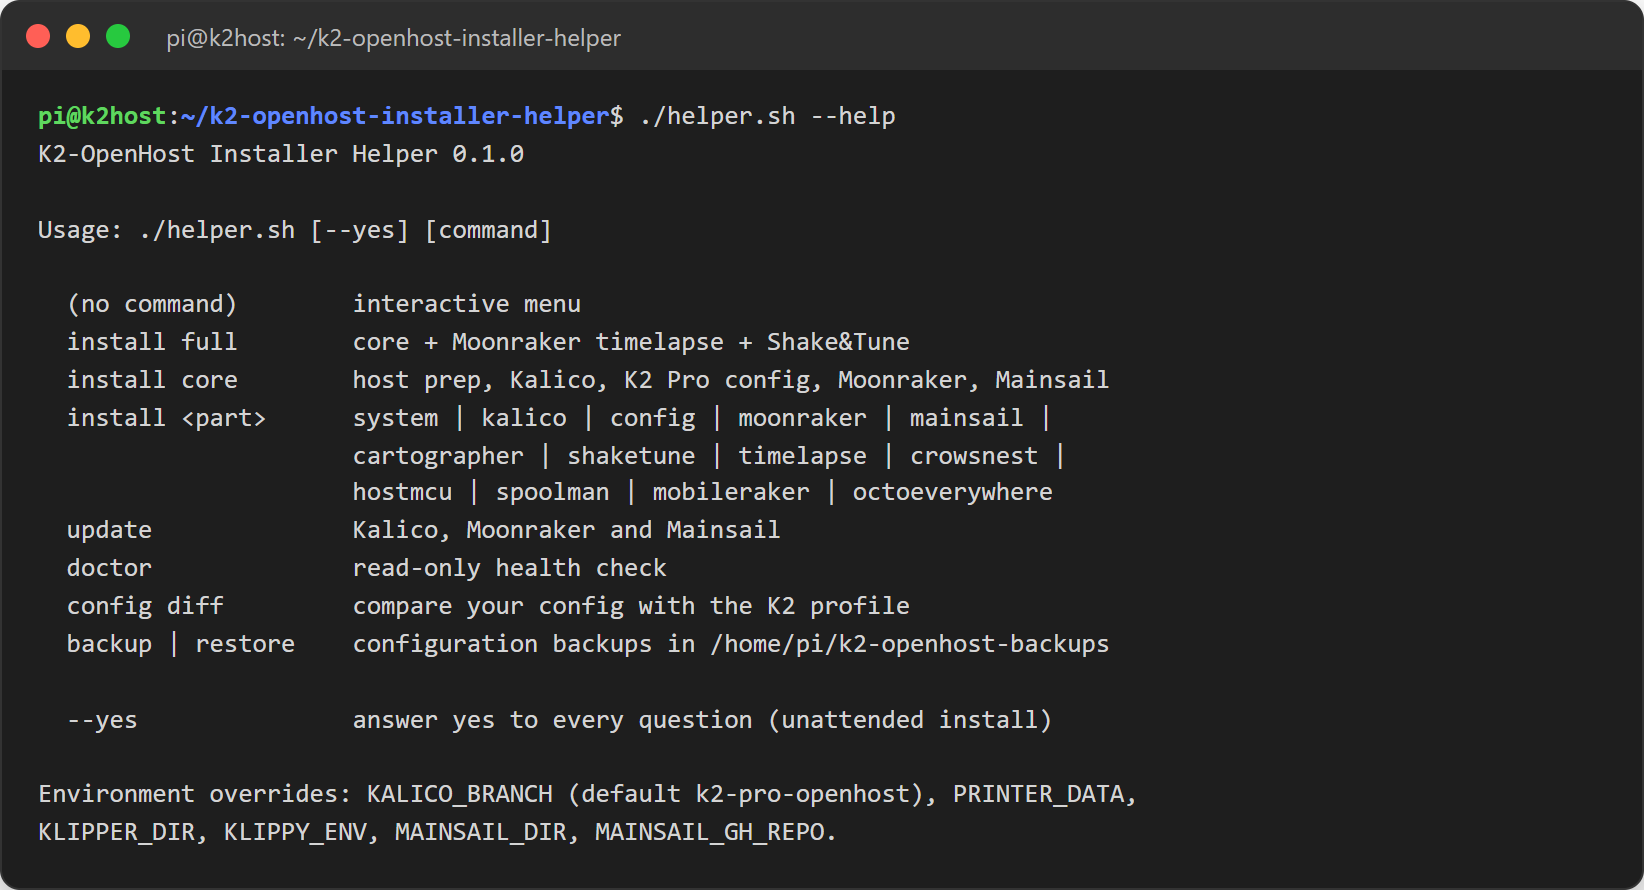
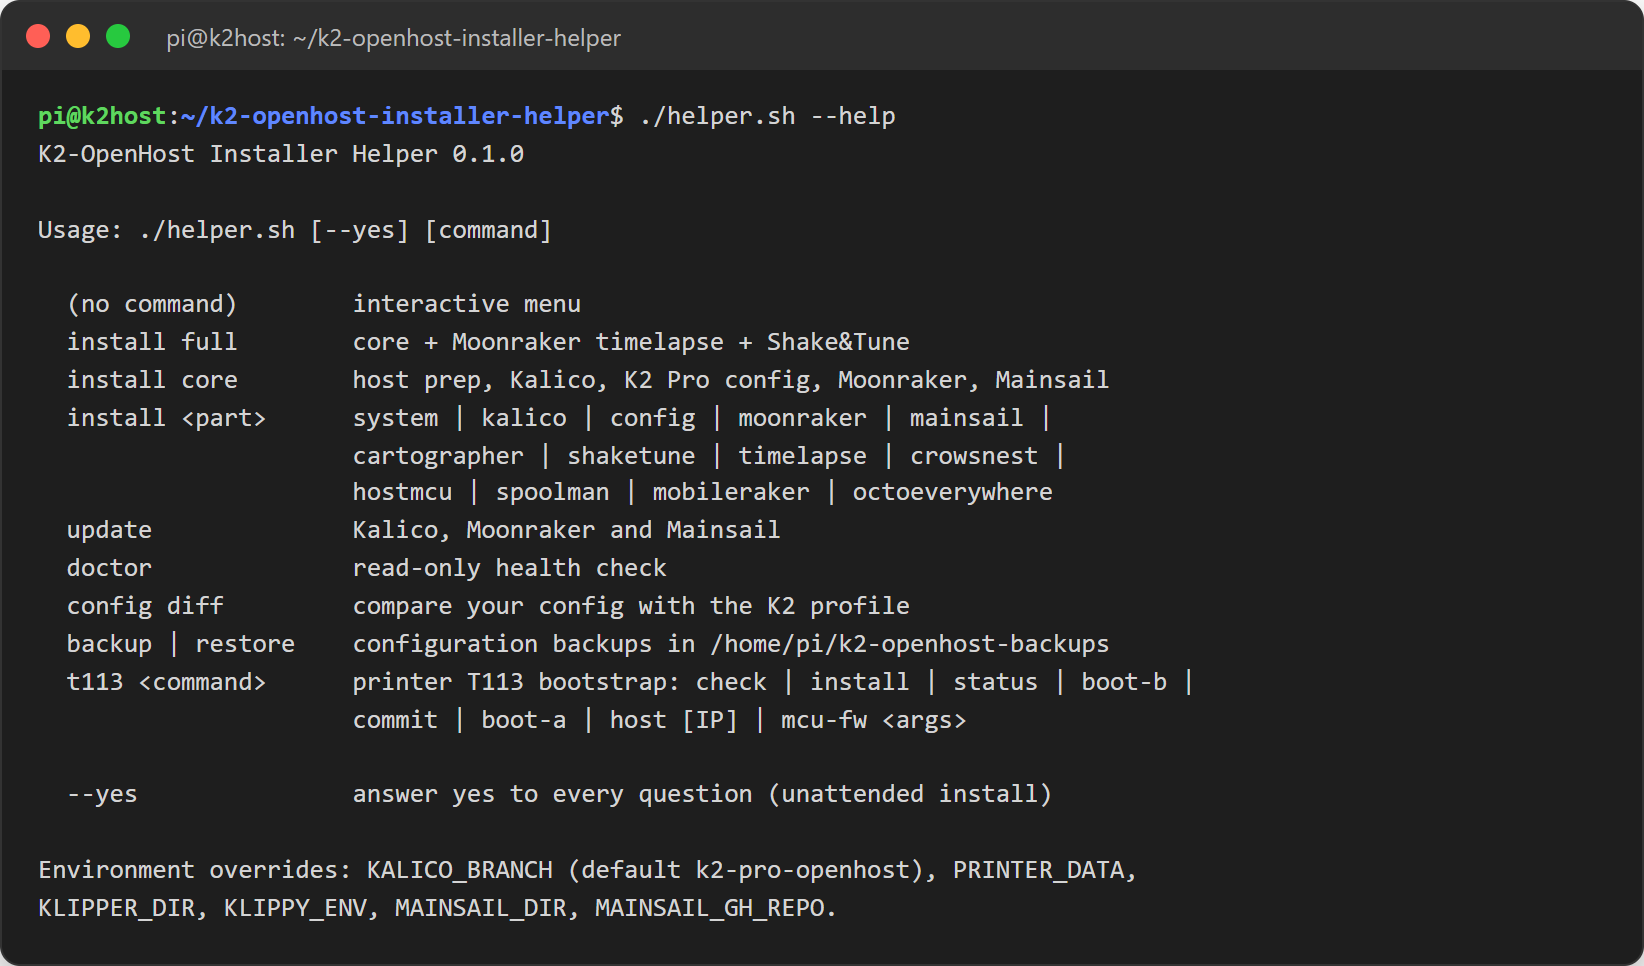
feat(t113): read-only printer check, refreshed docs and screenshots
./helper.sh t113 check (menu 23) runs the install's printer checks
without changing anything: K2 Pro model and board, running slot, boot
environment, free space, slot A's firmware and the Creality release
slot B would be built from. install reuses the same checks. The T113
entries are renumbered 24-31.

The README gains a Printer T113 bootstrap section, and the step-by-step
guide covers check, install and keep. The menu and help screenshots are
regenerated; new ones show t113 check (run read-only against the
reference printer) and k2oh-mcu-fw update.

diff --git a/README.it.md b/README.it.md
@@ -11,6 +11,8 @@
 
 K2-OpenHost Installer Helper trasforma un computer Linux esterno in un host [K2-OpenHost](https://github.com/MzTechnology97/K2-OpenHost) pronto all'uso. Installa Kalico, Moonraker e il fork Mainsail K2-OpenHost, che comandano la Creality K2 Pro attraverso la scheda madre originale; la scheda T113 della K2 fa da bridge USB gadget. Il menu è ispirato al [Creality Helper Script per la serie K2](https://github.com/tofuliang/Creality-Helper-Script-K2-Series).
 
+Dallo stesso menu prepara anche la stampante: il **bootstrap del T113** scrive un sistema K2-OpenHost nello slot B di riserva del T113, con i bridge USB gadget e HelixScreen collegato a questo host. Un solo menu configura sia l'host esterno sia la stampante. L'aggiornamento del firmware delle MCU resta un passaggio manuale e confermato.
+
 ```text
 Scheda madre Creality K2 Pro (T113)             Host Linux esterno (questo installer)
   Main MCU   ttyS2 ── ttyGS0 ─┐                  ┌── /dev/ttyUSB0 = /dev/k2-main
@@ -28,15 +30,16 @@ Scheda madre Creality K2 Pro (T113)             Host Linux esterno (questo insta
 2. [Guida passo passo per principianti](#guida-passo-passo-per-principianti)
 3. [Cosa viene installato](#cosa-viene-installato)
 4. [Le voci del menu](#le-voci-del-menu)
-5. [Riga di comando](#riga-di-comando)
-6. [La configurazione della stampante](#la-configurazione-della-stampante)
-7. [Controllo dell'host (doctor)](#controllo-dellhost-doctor)
-8. [Aggiornamenti](#aggiornamenti)
-9. [Backup e ripristino](#backup-e-ripristino)
-10. [Risoluzione dei problemi](#risoluzione-dei-problemi)
-11. [Sicurezza](#sicurezza)
-12. [Roadmap](#roadmap)
-13. [Crediti](#crediti)
+5. [Bootstrap del T113 della stampante](#bootstrap-del-t113-della-stampante)
+6. [Riga di comando](#riga-di-comando)
+7. [La configurazione della stampante](#la-configurazione-della-stampante)
+8. [Controllo dell'host (doctor)](#controllo-dellhost-doctor)
+9. [Aggiornamenti](#aggiornamenti)
+10. [Backup e ripristino](#backup-e-ripristino)
+11. [Risoluzione dei problemi](#risoluzione-dei-problemi)
+12. [Sicurezza](#sicurezza)
+13. [Roadmap](#roadmap)
+14. [Crediti](#crediti)
 
 ## Avvio rapido
 
@@ -63,7 +66,7 @@ Non serve esperienza con Linux: ogni comando qui sotto si può copiare e incolla
 | Alimentatore | Quello ufficiale della scheda. Una tensione insufficiente provoca disconnessioni casuali. |
 | Cavo USB | Un cavo **dati** da una porta USB dell'host alla porta Micro-USB di servizio della K2. I cavi solo di ricarica non funzionano. |
 | Rete | Ethernet o Wi-Fi, con accesso a Internet durante l'installazione. |
-| La K2 | Una **Creality K2 Pro** con firmware originale, raggiungibile in rete. Il bootstrap del T113 è stato preparato e provato sulla **1.1.0.94**; su firmware più recenti il suo funzionamento e la modalità USB gadget (OTG) del T113 non sono garantiti. La sua scheda T113 deve eseguire i tre bridge seriali USB gadget: la voce **23** del menu li installa nello slot di sistema di riserva della stampante (slot B) insieme a HelixScreen, senza toccare il sistema attuale (slot A). Vedi la [guida al bootstrap del T113](https://github.com/MzTechnology97/k2-openhost-t113-bootstrap/blob/main/README.it.md). |
+| La K2 | Una **Creality K2 Pro** con firmware originale, raggiungibile in rete. Il bootstrap del T113 è stato preparato e provato sulla **1.1.0.94**; su firmware più recenti il suo funzionamento e la modalità USB gadget (OTG) del T113 non sono garantiti. La sua scheda T113 deve eseguire i tre bridge seriali USB gadget: la voce **23** del menu controlla la stampante e la voce **24** li installa nello slot di sistema di riserva della stampante (slot B) insieme a HelixScreen, senza toccare il sistema attuale (slot A). Vedi la [guida al bootstrap del T113](https://github.com/MzTechnology97/k2-openhost-t113-bootstrap/blob/main/README.it.md). |
 | Un altro computer | Windows, macOS o Linux, per preparare la scheda e collegarti all'host. |
 | Fotocamere (opzionale) | La fotocamera dell'ugello e quella della camera non possono funzionare tramite il T113 in modalità OpenHost: ricabla il percorso originale verso porte USB dell'host, poi usa l'opzione Crowsnest. |
 
@@ -153,7 +156,10 @@ Serve ad applicare i permessi sulle porte seriali dati al tuo utente. Ricollegat
 ### 9. Collegare la K2
 
 1. Collega il cavo USB dati tra una porta USB dell'host e la porta Micro-USB di servizio della K2.
-2. Esegui la voce **23) Install the T113 bootstrap** (`./helper.sh t113 install`): chiede l'IP della stampante, verifica che sia una K2 Pro, costruisce il sistema dello slot B dal firmware Creality e lo scrive, poi propone l'avvio di prova. Segui la [guida al bootstrap del T113](https://github.com/MzTechnology97/k2-openhost-t113-bootstrap/blob/main/README.it.md).
+2. Prepara la scheda T113 della stampante (dettagli in [Bootstrap del T113 della stampante](#bootstrap-del-t113-della-stampante)):
+   1. voce **23) Check the printer**: in sola lettura, conferma la K2 Pro e mostra la versione firmware che userebbe lo slot B;
+   2. voce **24) Install the T113 bootstrap**: costruisce lo slot B dal firmware Creality, lo scrive (slot A non toccato) e propone l'avvio di prova;
+   3. dopo l'avvio di prova, quando Mainsail mostra la stampante pronta, voce **27) Keep slot B**.
 3. Klipper parte da solo: a ogni avvio aspetta fino a 60 secondi i tre canali.
 
 ### 10. Controllare l'host
@@ -211,16 +217,45 @@ KAMP non viene installato a parte: è già integrato in Kalico e lo configura `k
 | 19 | Serial names | Passa `printer.cfg` e l'attesa all'avvio ai nomi `/dev/k2-*`, indipendenti dall'ordine USB. |
 | 20 / 21 | Backup / Restore | Archivia o ripristina configurazione, libreria filamenti e stato CFS. |
 | 22 | Restart | Riavvia Klipper e Moonraker. Rifiutato durante una stampa. |
-| 23 | Install the T113 bootstrap | Chiede l'IP della stampante e conferma quello dell'host, clona il [bootstrap del T113](https://github.com/MzTechnology97/k2-openhost-t113-bootstrap), verifica via SSH che sia una K2 Pro, costruisce lo slot B dall'OTA Creality (versione dello slot A o più recente; provato solo sulla 1.1.0.94), aggiunge HelixScreen, scrive lo slot B (slot A non toccato) e propone l'avvio di prova. |
-| 24 | T113 status | Slot attivo, prossimo avvio, prova in corso, setup del primo avvio, HelixScreen. |
-| 25 | Trial boot slot B | Avvia lo slot B una volta; spegnendo e riaccendendo si torna allo slot A. |
-| 26 | Keep slot B | Rende lo slot B quello predefinito (da eseguire su uno slot B funzionante). |
-| 27 | Boot slot A | Torna al sistema originale della stampante. |
-| 28 | Change the host address | Aggiorna l'host usato da HelixScreen e da `k2oh-mcu-fw` sulla stampante. |
-| 29 | MCU firmware status | Versioni delle schede sulla stampante e file firmware che lo slot B scriverebbe. |
-| 30 | Update MCU firmware | Scarica l'ultima versione Creality, la prepara, mostra cosa cambia e aggiorna solo se confermi (prima ferma Klipper sull'host). Passo per passo: `./helper.sh t113 mcu-fw list\|download\|stage\|apply` (vedi la guida). |
+| 23 | Check the printer | In sola lettura: chiede l'IP della stampante e conferma quello dell'host, verifica via SSH che sia una K2 Pro (modello `F012`, scheda `CR0CN200400C10`), lo slot attivo, lo spazio libero e il firmware dello slot A, e mostra la versione Creality da cui verrebbe costruito lo slot B. Non scrive nulla. |
+| 24 | Install the T113 bootstrap | Clona il [bootstrap del T113](https://github.com/MzTechnology97/k2-openhost-t113-bootstrap), ripete i controlli, costruisce lo slot B dall'OTA Creality (versione dello slot A o più recente; provato solo sulla 1.1.0.94), aggiunge HelixScreen, scrive lo slot B (slot A non toccato) e propone l'avvio di prova. |
+| 25 | T113 status | Slot attivo, prossimo avvio, prova in corso, setup del primo avvio, HelixScreen. |
+| 26 | Trial boot slot B | Avvia lo slot B una volta; spegnendo e riaccendendo si torna allo slot A. |
+| 27 | Keep slot B | Rende lo slot B quello predefinito (da eseguire su uno slot B funzionante). |
+| 28 | Boot slot A | Torna al sistema originale della stampante. |
+| 29 | Change the host address | Aggiorna l'host usato da HelixScreen e da `k2oh-mcu-fw` sulla stampante. |
+| 30 | MCU firmware status | Versioni delle schede sulla stampante e file firmware che lo slot B scriverebbe. |
+| 31 | Update MCU firmware | Scarica l'ultima versione Creality, la prepara, mostra cosa cambia e aggiorna solo se confermi (prima ferma Klipper sull'host). Passo per passo: `./helper.sh t113 mcu-fw list\|download\|stage\|apply` (vedi la guida). |
 
 Le voci già installate mostrano `[installed]`. Se un passaggio fallisce, il menu mostra l'errore e resta aperto.
+
+## Bootstrap del T113 della stampante
+
+La scheda T113 della stampante esegue i bridge USB gadget verso questo host. Il bootstrap mette un sistema K2-OpenHost nello **slot B di riserva** del T113 e non scrive mai lo **slot A**, il sistema che la stampante usa oggi. È sviluppato in un repository dedicato: [k2-openhost-t113-bootstrap](https://github.com/MzTechnology97/k2-openhost-t113-bootstrap). La sua [guida completa](https://github.com/MzTechnology97/k2-openhost-t113-bootstrap/blob/main/README.it.md) descrive ogni passo, l'avvio di prova, il ripristino e la rimozione.
+
+> [!IMPORTANT]
+> Preparato e provato sul firmware originale della K2 Pro **1.1.0.94**. Le versioni più recenti sono accettate con un avviso, ma su di esse il bootstrap e la modalità USB gadget (OTG) del T113 **non sono garantiti**.
+
+**1. Controllo della stampante** (voce 23, `./helper.sh t113 check`). In sola lettura: modello, slot, spazio libero, versione firmware e versione Creality che userebbe lo slot B.
+
+<img src="docs/images/cli-t113-check.png" alt="Controllo del T113" width="760">
+
+**2. Installazione** (voce 24, `./helper.sh t113 install`):
+1. scarica l'OTA Creality dal CDN Creality e ne verifica l'MD5;
+2. costruisce lo slot B e aggiunge HelixScreen;
+3. carica tutto sulla stampante, salva il vecchio slot B e l'ambiente U-Boot, scrive lo slot B e lo rilegge;
+4. salva l'IP di questo host per HelixScreen e `k2oh-mcu-fw`.
+
+**3. Avvio di prova** (voce 26). Lo slot B si avvia una volta. Se non parte, spegni e riaccendi la stampante e torna allo slot A. Al primo avvio HelixScreen si installa da solo, già collegato a questo host. Collega il cavo Micro-USB di servizio e controlla Mainsail, poi **tieni lo slot B** (voce 27). La voce 28 torna allo slot A in qualsiasi momento.
+
+**4. Firmware di MCU, motori e CFS** (voce 31, `./helper.sh t113 mcu-fw update`):
+1. scarica l'ultima versione Creality e tiene solo i file firmware;
+2. la prepara nello slot B e mostra quali schede cambierebbero;
+3. aggiorna **solo se rispondi sì**, con gli strumenti Creality, dopo aver verificato che Klipper su questo host sia fermo (`sudo systemctl stop klipper`).
+
+`apply --cfs` include le unità CFS. Ecco un esempio sullo slot B, rispondendo no:
+
+<img src="docs/images/cli-t113-mcu-fw-update.png" alt="k2oh-mcu-fw update" width="760">
 
 ## Riga di comando
 

diff --git a/README.md b/README.md
@@ -11,6 +11,8 @@
 
 The K2-OpenHost Installer Helper turns an external Linux computer into a ready [K2-OpenHost](https://github.com/MzTechnology97/K2-OpenHost) host. It installs Kalico, Moonraker and the Mainsail K2-OpenHost fork, which run the Creality K2 Pro through its original mainboard; the K2's T113 board acts as a USB gadget bridge. The menu is styled after the [Creality Helper Script for the K2 series](https://github.com/tofuliang/Creality-Helper-Script-K2-Series).
 
+From the same menu it also prepares the printer: the **T113 bootstrap** writes a K2-OpenHost system to the T113's spare slot B, with the USB gadget bridges and HelixScreen pointed at this host. One menu sets up both the external host and the printer. MCU firmware updates stay a manual, confirmed step.
+
 ```text
 Creality K2 Pro mainboard (T113)                External Linux host (this installer)
   Main MCU   ttyS2 ── ttyGS0 ─┐                  ┌── /dev/ttyUSB0 = /dev/k2-main
@@ -28,15 +30,16 @@ Creality K2 Pro mainboard (T113)                External Linux host (this instal
 2. [Step-by-step guide for beginners](#step-by-step-guide-for-beginners)
 3. [What gets installed](#what-gets-installed)
 4. [Menu reference](#menu-reference)
-5. [Command line](#command-line)
-6. [Your printer configuration](#your-printer-configuration)
-7. [Health check (doctor)](#health-check-doctor)
-8. [Updates](#updates)
-9. [Backup and restore](#backup-and-restore)
-10. [Troubleshooting](#troubleshooting)
-11. [Safety](#safety)
-12. [Roadmap](#roadmap)
-13. [Credits](#credits)
+5. [Printer T113 bootstrap](#printer-t113-bootstrap)
+6. [Command line](#command-line)
+7. [Your printer configuration](#your-printer-configuration)
+8. [Health check (doctor)](#health-check-doctor)
+9. [Updates](#updates)
+10. [Backup and restore](#backup-and-restore)
+11. [Troubleshooting](#troubleshooting)
+12. [Safety](#safety)
+13. [Roadmap](#roadmap)
+14. [Credits](#credits)
 
 ## Quick start
 
@@ -63,7 +66,7 @@ No Linux experience is needed: every command below can be copied and pasted.
 | Power supply | The official supply for your board. Under-voltage causes random disconnections. |
 | USB cable | A **data** cable from a host USB port to the K2 service Micro-USB port. Charge-only cables do not work. |
 | Network | Ethernet or Wi-Fi, with internet access during the install. |
-| The K2 | A **Creality K2 Pro** on stock firmware, reachable on your network. The T113 bootstrap was prepared and tested on **1.1.0.94**; on newer firmware it and the T113 USB gadget (OTG) mode are not guaranteed. Its T113 board must run the three USB gadget serial bridges: menu **23** installs them in the printer's spare system slot (slot B) with HelixScreen, leaving the current system (slot A) untouched. See the [T113 bootstrap guide](https://github.com/MzTechnology97/k2-openhost-t113-bootstrap/blob/main/README.md). |
+| The K2 | A **Creality K2 Pro** on stock firmware, reachable on your network. The T113 bootstrap was prepared and tested on **1.1.0.94**; on newer firmware it and the T113 USB gadget (OTG) mode are not guaranteed. Its T113 board must run the three USB gadget serial bridges: menu **23** checks the printer and menu **24** installs them in the printer's spare system slot (slot B) with HelixScreen, leaving the current system (slot A) untouched. See the [T113 bootstrap guide](https://github.com/MzTechnology97/k2-openhost-t113-bootstrap/blob/main/README.md). |
 | Another computer | Windows, macOS or Linux, to prepare the card and connect to the host. |
 | Cameras (optional) | The nozzle and chamber cameras cannot run through the T113 in OpenHost mode: rewire their original cable path to USB ports of the host, then use the Crowsnest option. |
 
@@ -153,7 +156,10 @@ This applies the serial-port permissions given to your user. Reconnect with `ssh
 ### 9. Connect the K2
 
 1. Connect the USB data cable between a USB port of the host and the K2 service Micro-USB port.
-2. Run menu **23) Install the T113 bootstrap** (`./helper.sh t113 install`): it asks for the printer's IP, checks that it is a K2 Pro, builds the slot B system from Creality's own firmware and writes it, then offers the trial boot. Follow the [T113 bootstrap guide](https://github.com/MzTechnology97/k2-openhost-t113-bootstrap/blob/main/README.md).
+2. Prepare the printer's T113 board (details in [Printer T113 bootstrap](#printer-t113-bootstrap)):
+   1. menu **23) Check the printer**: read-only, it confirms the K2 Pro and shows the firmware release slot B would use;
+   2. menu **24) Install the T113 bootstrap**: builds slot B from Creality's own firmware, writes it (slot A untouched) and offers the trial boot;
+   3. after the trial boot, when Mainsail shows the printer ready, menu **27) Keep slot B**.
 3. Klipper starts by itself: it waits up to 60 seconds for the three channels every time it starts.
 
 ### 10. Check the host
@@ -211,16 +217,45 @@ KAMP is not installed separately: Kalico already includes it, and the K2 profile
 | 19 | Serial names | Switches `printer.cfg` and the start gate to `/dev/k2-*` names, independent of USB enumeration order. |
 | 20 / 21 | Backup / Restore | Archives or restores the configuration, CFS filament library and CFS state. |
 | 22 | Restart | Restarts Klipper and Moonraker. Refused while printing. |
-| 23 | Install the T113 bootstrap | Asks the printer IP and confirms this host's IP, clones the [T113 bootstrap](https://github.com/MzTechnology97/k2-openhost-t113-bootstrap), checks over SSH that the printer is a K2 Pro, builds slot B from Creality's OTA (slot A's release or a newer one; tested on 1.1.0.94 only), adds HelixScreen, writes slot B (slot A untouched) and offers the trial boot. |
-| 24 | T113 status | Running slot, next boot, trial flag, first-boot setup, HelixScreen. |
-| 25 | Trial boot slot B | Boots slot B once; a power cycle returns to slot A. |
-| 26 | Keep slot B | Makes slot B the default (run on a working slot B). |
-| 27 | Boot slot A | Back to the printer's original system. |
-| 28 | Change the host address | Updates the host used by HelixScreen and `k2oh-mcu-fw` on the printer. |
-| 29 | MCU firmware status | Board versions on the printer and the firmware files slot B would flash. |
-| 30 | Update MCU firmware | Downloads the latest Creality release, stages it, shows what changes and flashes only if you confirm (stop Klipper on the host first). Step by step: `./helper.sh t113 mcu-fw list\|download\|stage\|apply` (see the guide). |
+| 23 | Check the printer | Read-only: asks the printer IP and confirms this host's IP, checks over SSH that the printer is a K2 Pro (model `F012`, board `CR0CN200400C10`), the running slot, free space and slot A's firmware, and shows the Creality release slot B would be built from. Writes nothing. |
+| 24 | Install the T113 bootstrap | Clones the [T113 bootstrap](https://github.com/MzTechnology97/k2-openhost-t113-bootstrap), repeats the checks, builds slot B from Creality's OTA (slot A's release or a newer one; tested on 1.1.0.94 only), adds HelixScreen, writes slot B (slot A untouched) and offers the trial boot. |
+| 25 | T113 status | Running slot, next boot, trial flag, first-boot setup, HelixScreen. |
+| 26 | Trial boot slot B | Boots slot B once; a power cycle returns to slot A. |
+| 27 | Keep slot B | Makes slot B the default (run on a working slot B). |
+| 28 | Boot slot A | Back to the printer's original system. |
+| 29 | Change the host address | Updates the host used by HelixScreen and `k2oh-mcu-fw` on the printer. |
+| 30 | MCU firmware status | Board versions on the printer and the firmware files slot B would flash. |
+| 31 | Update MCU firmware | Downloads the latest Creality release, stages it, shows what changes and flashes only if you confirm (stop Klipper on the host first). Step by step: `./helper.sh t113 mcu-fw list\|download\|stage\|apply` (see the guide). |
 
 Entries already installed show `[installed]`. If a step fails, the menu shows the error and stays open.
+
+## Printer T113 bootstrap
+
+The printer's own T113 board runs the USB gadget bridges to this host. The bootstrap puts a K2-OpenHost system in the T113's **spare slot B** and never writes **slot A**, the system the printer runs today. It is developed in its own repository: [k2-openhost-t113-bootstrap](https://github.com/MzTechnology97/k2-openhost-t113-bootstrap). Its [complete guide](https://github.com/MzTechnology97/k2-openhost-t113-bootstrap/blob/main/README.md) covers every step, the trial boot, recovery and removal.
+
+> [!IMPORTANT]
+> Prepared and tested on the K2 Pro stock firmware **1.1.0.94**. Newer releases are accepted with a warning, but on them the bootstrap and the T113 USB gadget (OTG) mode are **not guaranteed**.
+
+**1. Check the printer** (menu 23, `./helper.sh t113 check`). Read-only: model, slot, free space, firmware release and the Creality release slot B would use.
+
+<img src="docs/images/cli-t113-check.png" alt="T113 check" width="760">
+
+**2. Install** (menu 24, `./helper.sh t113 install`):
+1. downloads the Creality OTA from Creality's CDN and checks its MD5;
+2. builds slot B and adds HelixScreen;
+3. uploads to the printer, backs up the old slot B and the U-Boot environment, writes slot B and reads it back;
+4. saves this host's IP for HelixScreen and `k2oh-mcu-fw`.
+
+**3. Trial boot** (menu 26). Slot B boots once. If it does not come up, power cycle the printer and it returns to slot A. On the first boot HelixScreen installs itself, already pointed at this host. Connect the service Micro-USB cable and check Mainsail, then **keep slot B** (menu 27). Menu 28 returns to slot A at any time.
+
+**4. MCU, motor and CFS firmware** (menu 31, `./helper.sh t113 mcu-fw update`):
+1. downloads the latest Creality release and keeps only the firmware files;
+2. stages it in slot B and shows which boards would change;
+3. flashes **only if you answer yes**, with Creality's own tools, after checking that Klipper on this host is stopped (`sudo systemctl stop klipper`).
+
+`apply --cfs` includes the CFS units. This is an example run on slot B, answering no:
+
+<img src="docs/images/cli-t113-mcu-fw-update.png" alt="k2oh-mcu-fw update" width="760">
 
 ## Command line
 

diff --git a/CHANGELOG.md b/CHANGELOG.md
@@ -2,6 +2,7 @@
 
 ## Unreleased
 
+- T113 menu: new read-only **23) Check the printer** (`./helper.sh t113 check`): K2 Pro model, slot, free space, firmware release and the Creality release slot B would use. The other T113 entries move to 24–31. The README has a Printer T113 bootstrap section, and new terminal screenshots of the menu, help, check and `k2oh-mcu-fw update`.
 - The T113 bootstrap moved to its own repository, [k2-openhost-t113-bootstrap](https://github.com/MzTechnology97/k2-openhost-t113-bootstrap) (history kept). The T113 menu clones it to `~/k2-openhost-t113-bootstrap`.
 - The T113 bootstrap builds slot B from the release slot A runs, or a newer one, with a warning: it was prepared and tested on stock 1.1.0.94 only. Menu 30 runs `k2oh-mcu-fw update`: latest Creality release, flash only on confirmation.
 - **T113 bootstrap (slot B), experimental, not yet run on hardware.** Menu 23–29 / `./helper.sh t113 …`:
